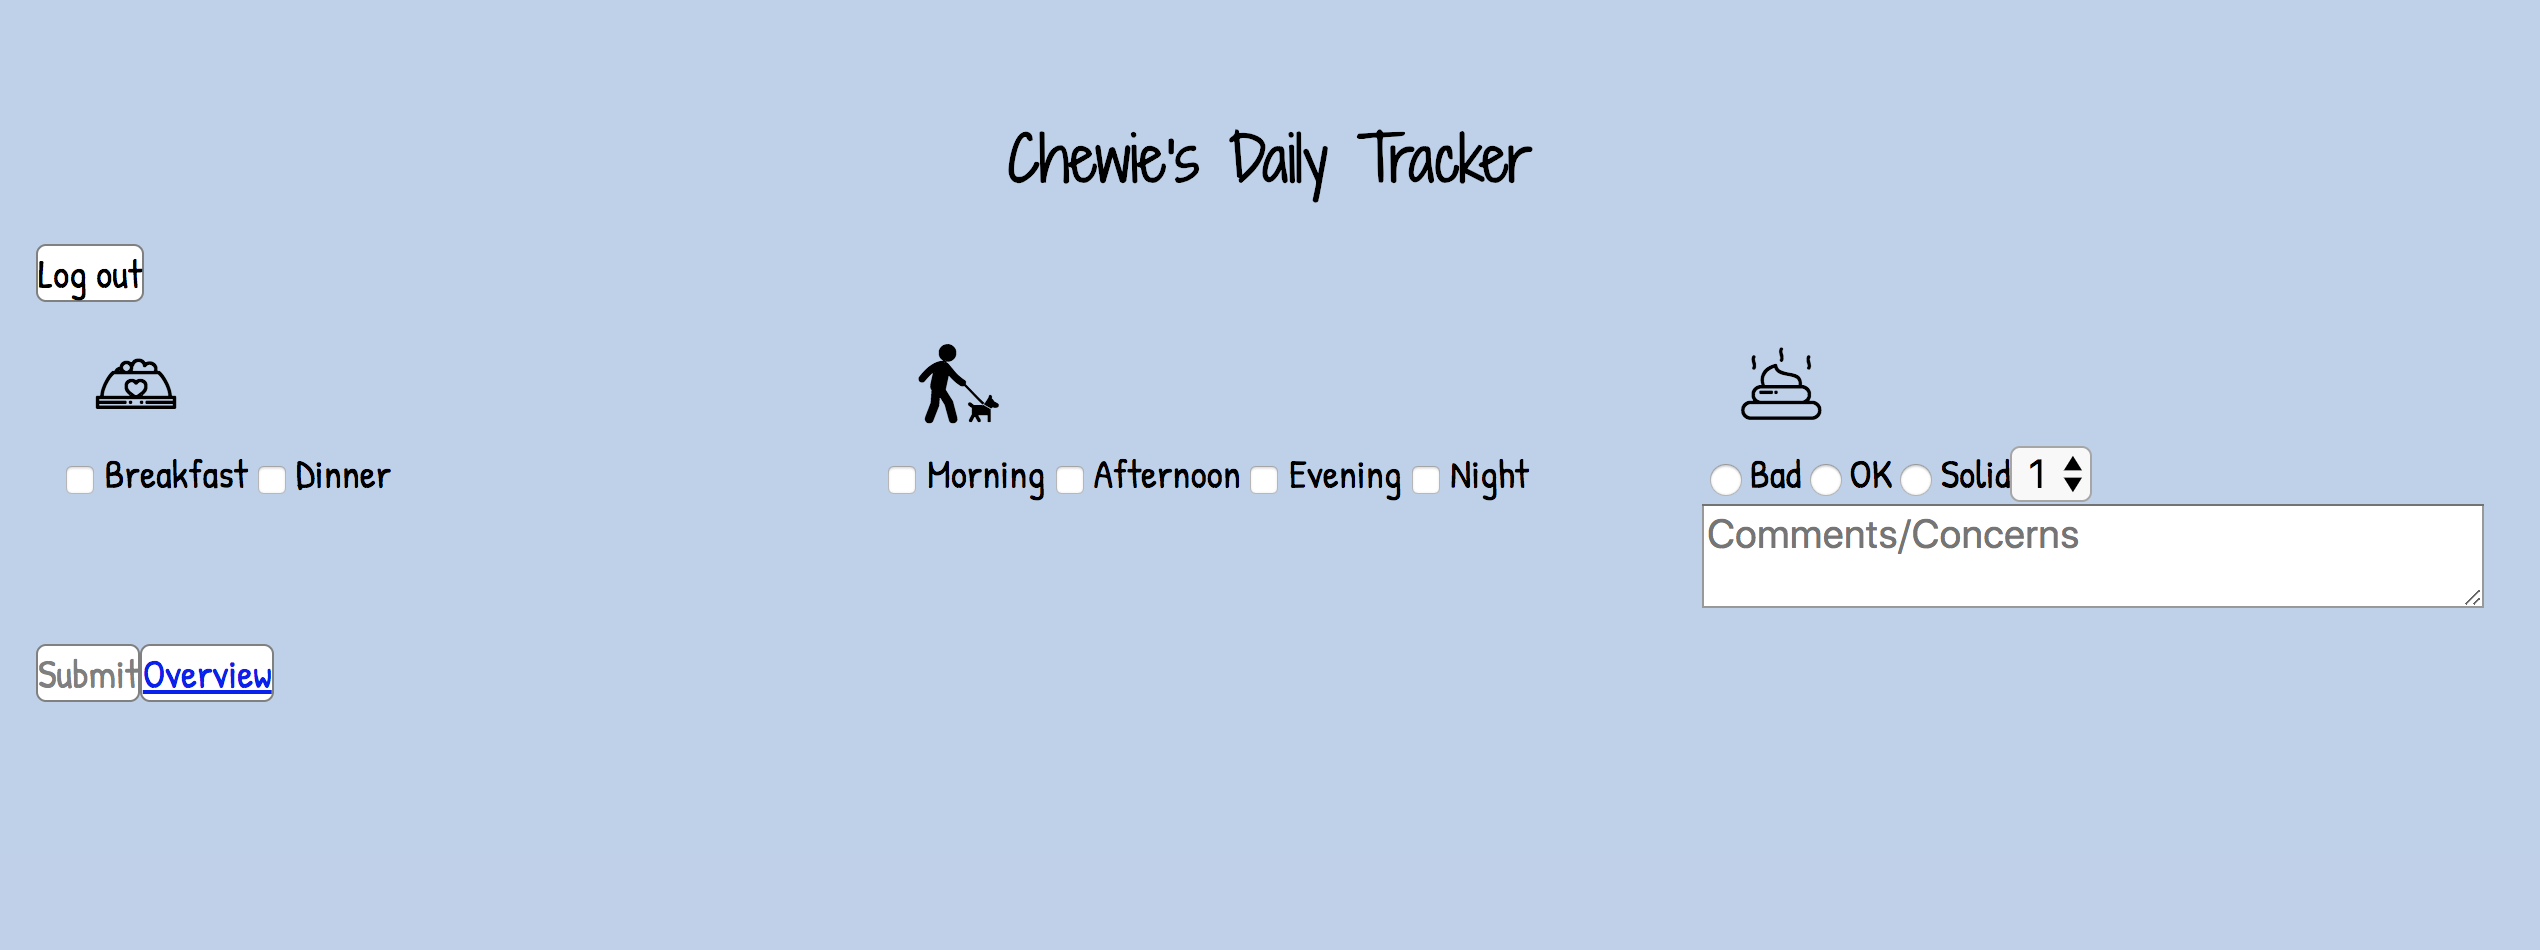
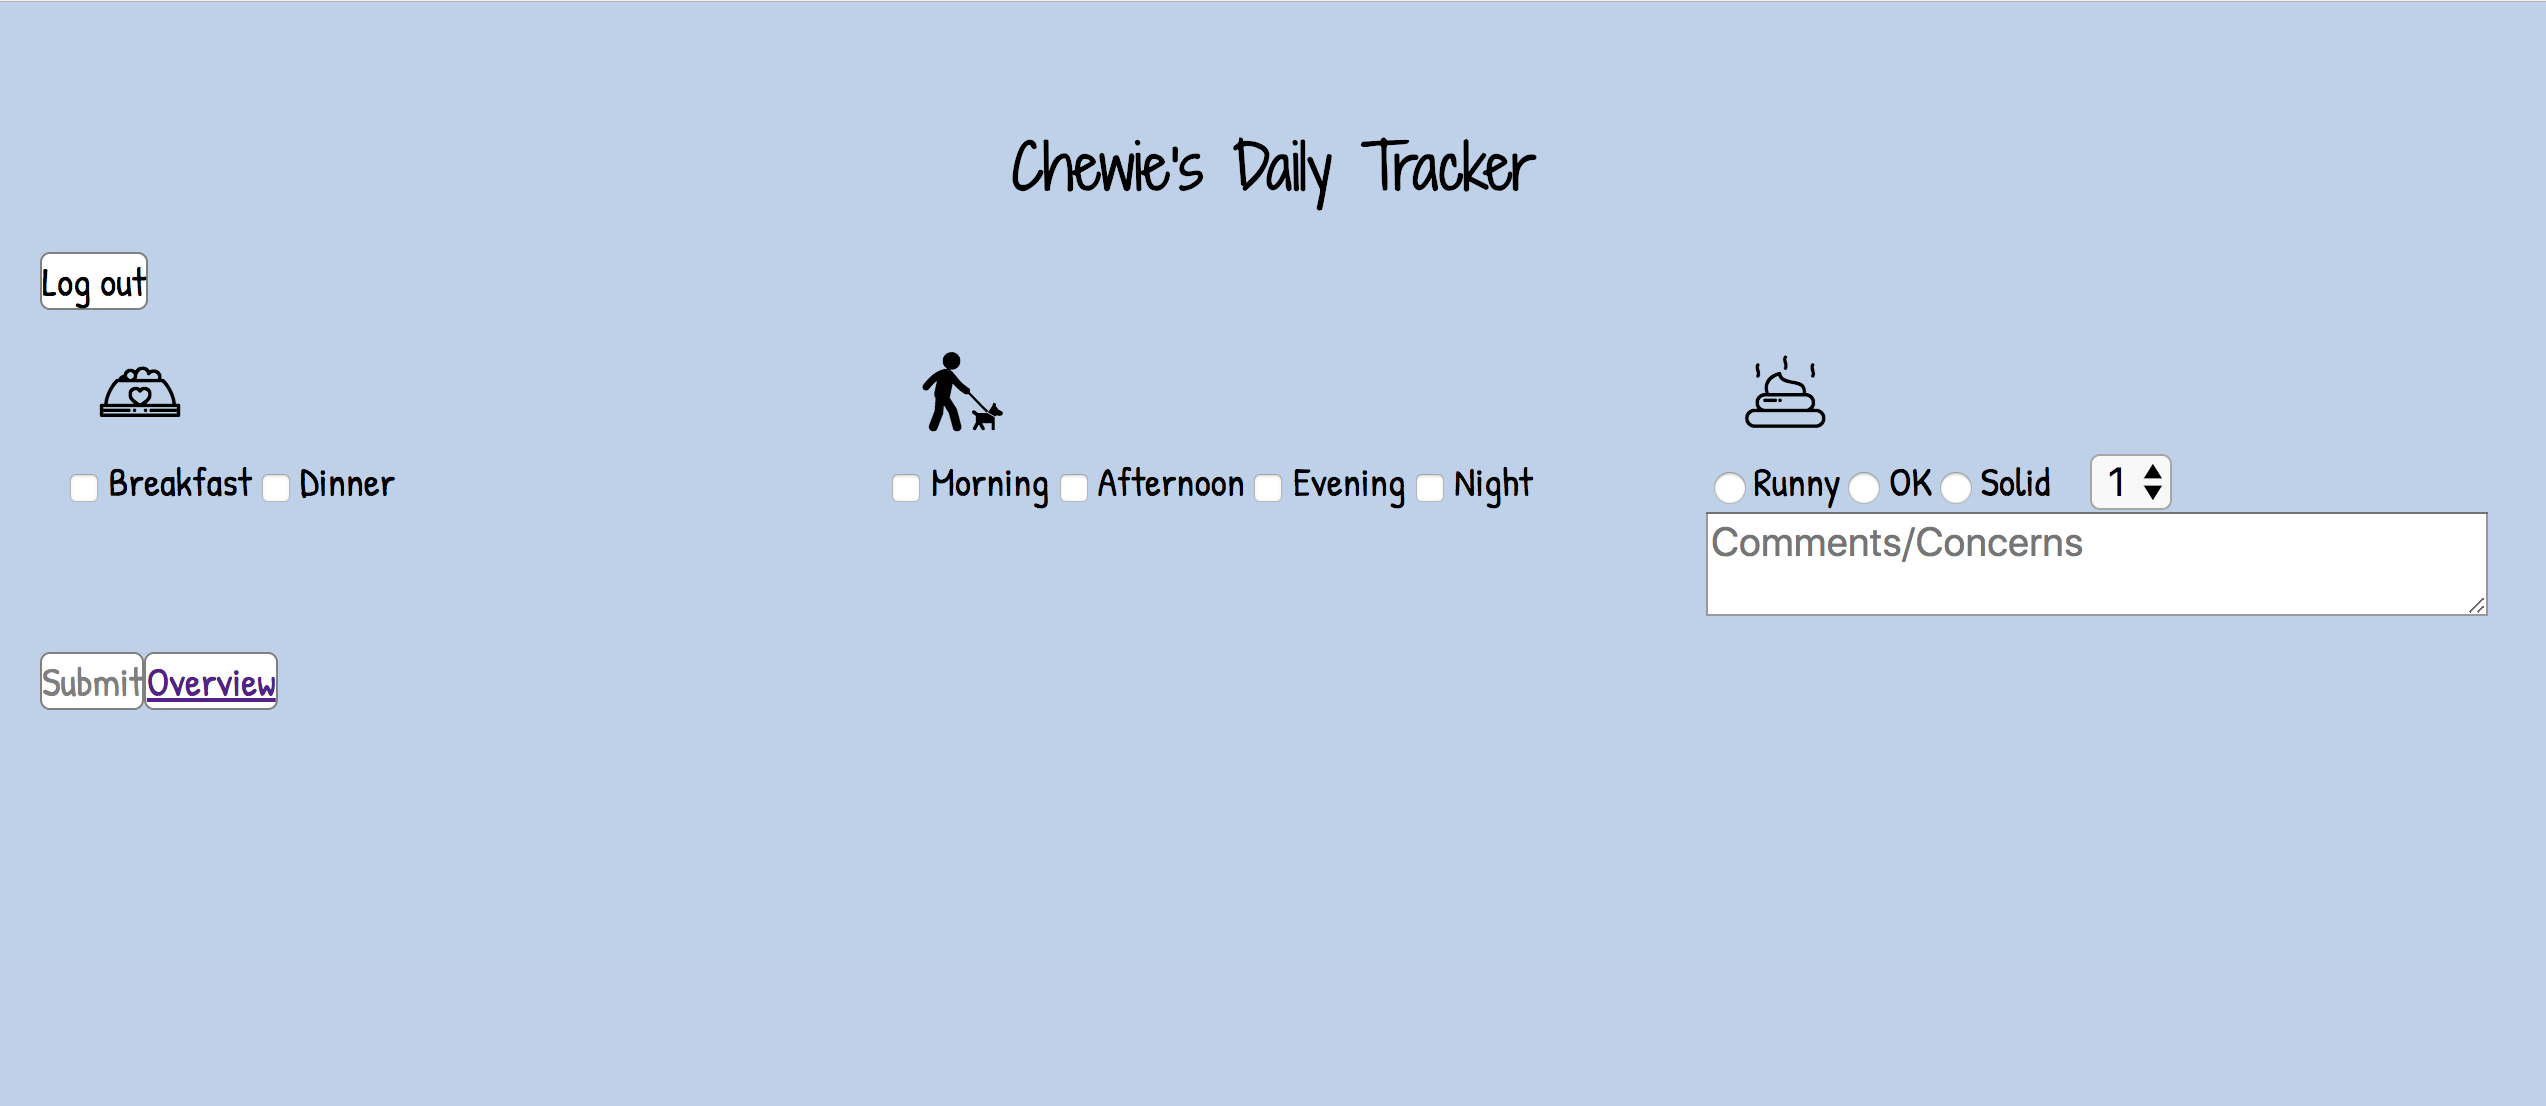
updated screen shots

diff --git a/src/components/Form.js b/src/components/Form.js
@@ -128,7 +128,7 @@ export class Form extends React.Component {
                                 <Field name="poopQuality" component="input" type="radio" value="Solid" />
                                 Solid
                                 </label>
-                        
+                                &emsp;
                             <Field name='poopsTaken' component='select'>
                                 <option value="1">1</option>
                                 <option value="2">2</option>
